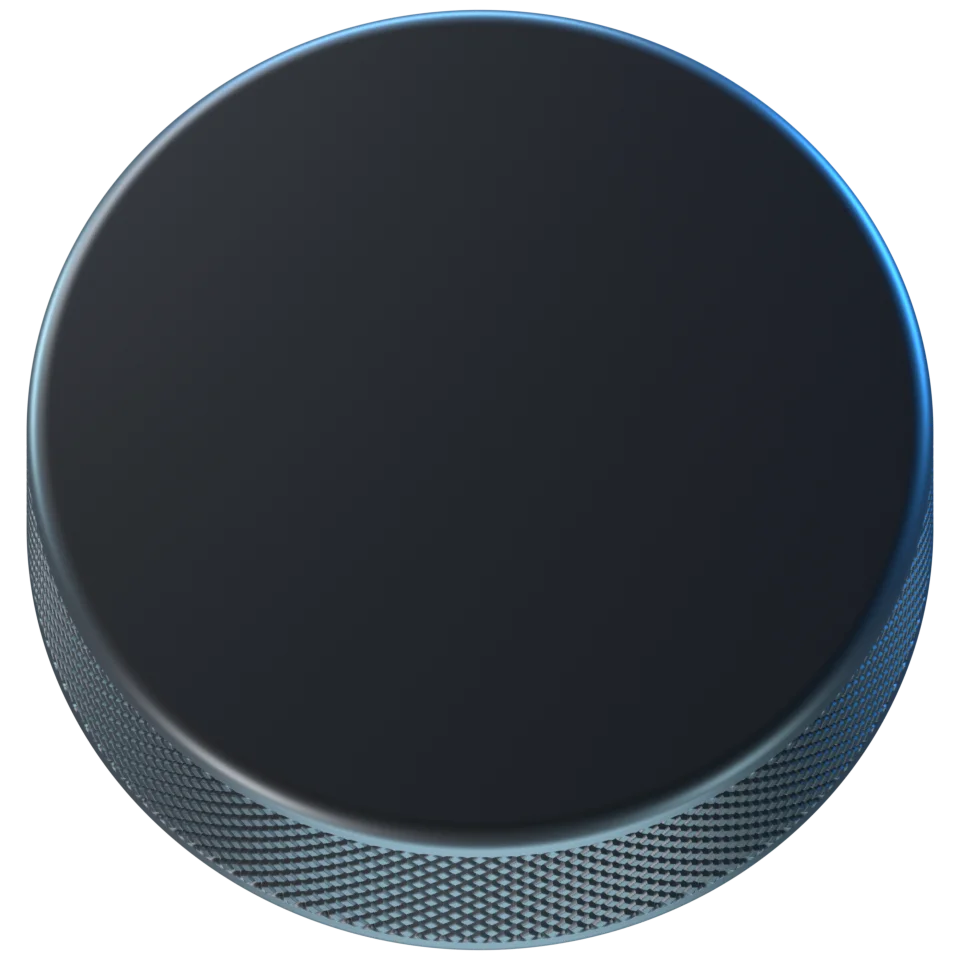
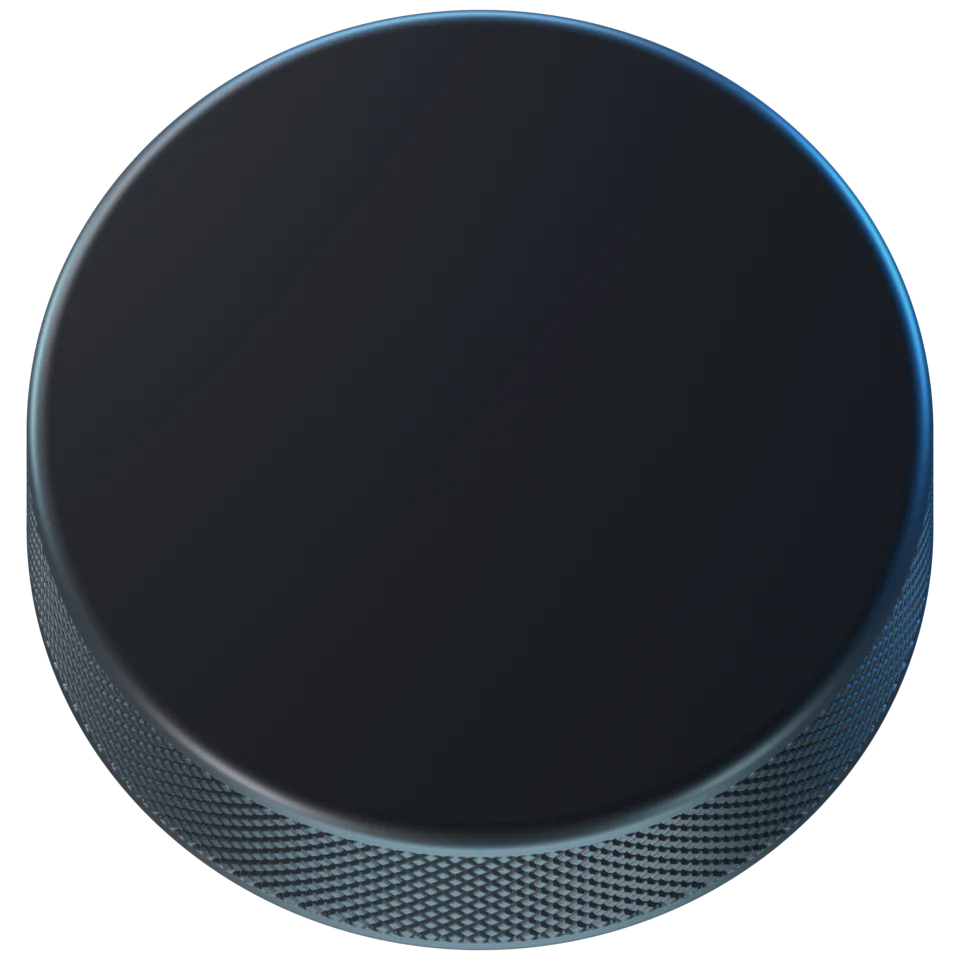
Шайба: резина на 15% темнее (по просьбе владельца)

diff --git a/tools/make_puck.py b/tools/make_puck.py
@@ -48,6 +48,8 @@ OUT_SIDE = os.path.join(ROOT, 'images', 'puck-side.webp')   # потёртост
 SIZE = 960            # размер картинки в пикселях (квадрат)
 SAMPLES = 500         # качество рендера (больше — чище, но дольше)
 WEBP_QUALITY = 85     # качество сжатия: 100 — без потерь (тяжёлая); 85 — на глаз не отличить от 90, а файлы на ~15% легче
+BODY_BRIGHTNESS = 0.85   # яркость корпуса (резины): 1 — как отрендерил Blender, меньше — темнее.
+                         # 0.85 — по просьбе владельца 2026-11-16 («чуть-чуть потемнее»); логотип не трогаем
 TILT = 22             # наклон в градусах: 0 — шайба смотрит прямо на зрителя, больше — виден бортик
 MARGIN = 0.012        # поля вокруг шайбы (доля от размера картинки)
 
@@ -697,6 +699,21 @@ def save_face(raw_png):
     print('Готово:', OUT_FACE, round(os.path.getsize(OUT_FACE) / 1024), 'КБ')
 
 
+def save_body(raw_png):
+    """Сохраняет корпус в WebP, сделав его темнее на BODY_BRIGHTNESS (прозрачность не меняется)."""
+    img = bpy.data.images.load(raw_png)
+    w, h = img.size
+    px = np.empty(w * h * 4, np.float32)
+    img.pixels.foreach_get(px)
+    px = px.reshape(-1, 4)
+    px[:, :3] *= BODY_BRIGHTNESS
+    img.pixels.foreach_set(px.ravel())
+    img.update()
+    img.save_render(OUT_BODY, scene=bpy.context.scene)
+    bpy.data.images.remove(img)
+    print('Готово:', OUT_BODY, round(os.path.getsize(OUT_BODY) / 1024), 'КБ')
+
+
 def render():
     scene = bpy.context.scene
     raw = os.path.join(bpy.app.tempdir, 'puck_face_raw.png')
@@ -704,7 +721,11 @@ def render():
     render_one('face', 'PuckFaceCamera', raw)
     scene.render.image_settings.file_format = 'WEBP'
     save_face(raw)                                        # ...потом облегчаем и сохраняем
-    render_one('body', 'PuckCamera', OUT_BODY)
+    raw_body = os.path.join(bpy.app.tempdir, 'puck_body_raw.png')
+    scene.render.image_settings.file_format = 'PNG'       # корпус тоже сначала без потерь...
+    render_one('body', 'PuckCamera', raw_body)
+    scene.render.image_settings.file_format = 'WEBP'
+    save_body(raw_body)                                   # ...потом затемняем и сохраняем
     make_side_marks()
     set_mode('full')                                # в окне Blender остаётся целая шайба
     print('Числа для style.css (блок .puck-zone):')

diff --git a/CLAUDE.md b/CLAUDE.md
@@ -157,6 +157,8 @@
   и сам сохранит все три файла:
   `"C:\Program Files (x86)\Steam\steamapps\common\Blender\blender.exe" --python tools\make_puck.py`
   Наклон, размер, количество царапин — в блоке «НАСТРОЙКИ» в начале `tools/make_puck.py`.
+  Яркость резины — `BODY_BRIGHTNESS` (0.85: владелец попросил шайбу «чуть-чуть потемнее»;
+  затемняется только корпус, логотип и царапины — нет).
   Если менять наклон (TILT) — скрипт напечатает четыре числа `--face-…`, их нужно вписать
   в `style.css` (блок `.puck-zone`), иначе логотип ляжет на корпус криво. Толщина, скругление
   и число ромбиков (H, BEVEL, KNURL_COUNT) продублированы в `script.js` — менять в обоих местах.
